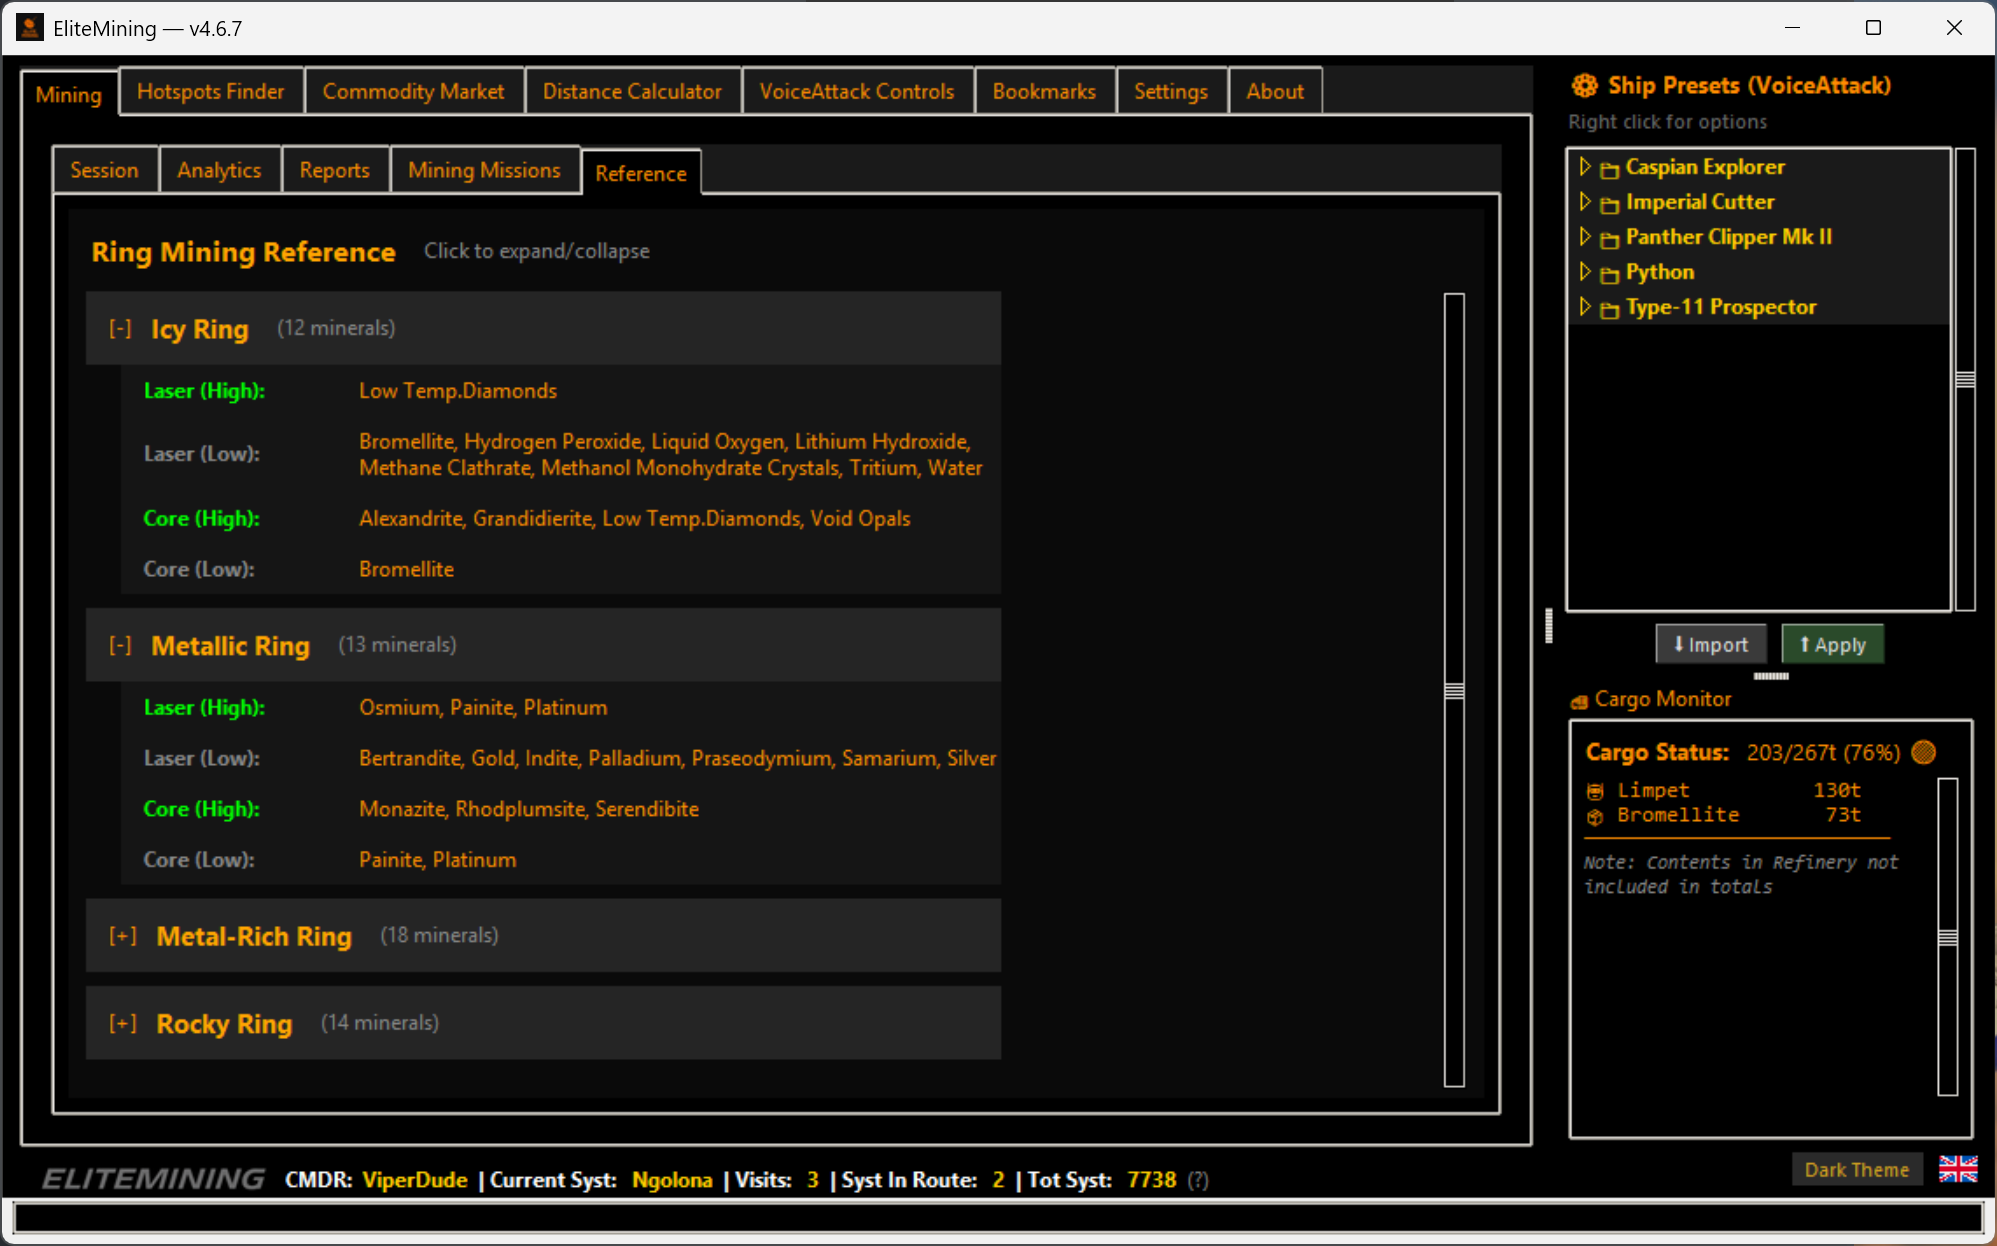
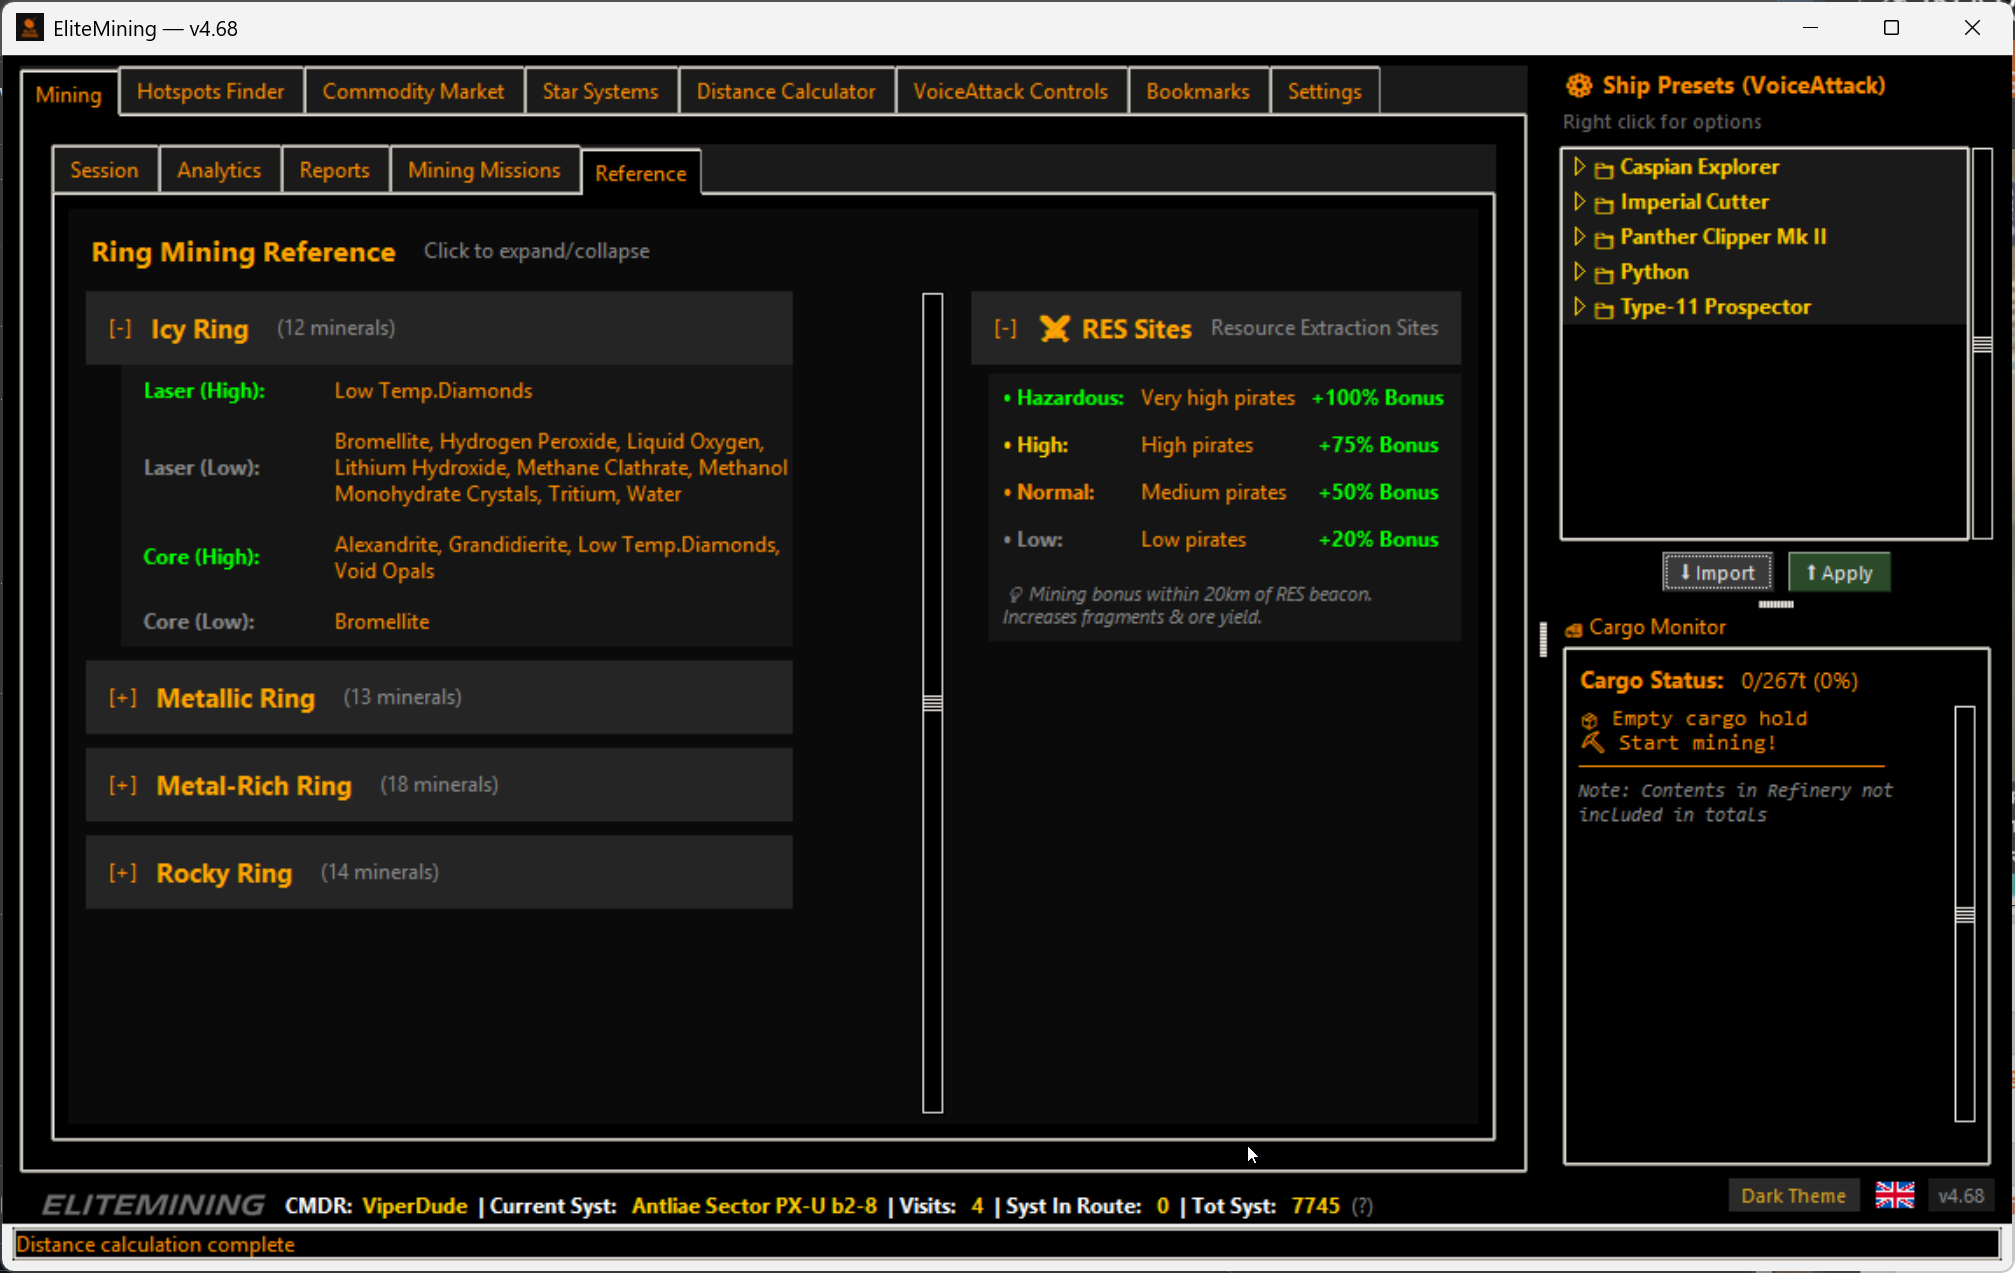
v4.6.8: Add Ring Mining Reference documentation

Changed region(s): [[0.0, 0.0, 1.0, 1.0], [0.9314, 0.0, 0.9624, 0.0305]]

diff --git a/README.md b/README.md
@@ -17,6 +17,7 @@
 - [Hotspot Finder](#hotspot-finder)
 - [Commodity Market](#commodity-market)
 - [Mining Missions](#mining-missions)
+- [Ring Mining Reference](#ring-mining-reference)
 - [Star Systems](#star-systems)
 - [Distance Calculator](#distance-calculator)
 - [Getting Started](#getting-started)
@@ -258,6 +259,22 @@ Track your active mining missions and quickly find hotspots or selling stations 
 
 <img src="https://github.com/Viper-Dude/EliteMining/blob/main/Screenshot/mining_missions.png" width="600"><br>  
 *Mining Missions tab showing active missions with quick search options.*
+
+[Back to Top](#top)
+
+---
+
+## Ring Mining Reference
+
+Quick reference guide for ring types and mining minerals, accessible from the Mining tab.
+
+### Key Features
+- **Ring Type Guides** – Expandable sections for Icy, Metallic, Metal-Rich, and Rocky rings
+- **Mineral Categories** – Laser (High/Low) and Core (High/Low) minerals for each ring type
+- **RES Sites Reference** – Resource Extraction Site types with pirate levels and mining bonus percentages
+
+<img src="https://github.com/Viper-Dude/EliteMining/blob/main/Screenshot/mining_reference.png" width="600"><br>  
+*Ring Mining Reference showing ring types and RES site bonuses.*
 
 [Back to Top](#top)
 

diff --git a/docs/PATCHNOTES_v4.68.md b/docs/PATCHNOTES_v4.68.md
@@ -8,6 +8,12 @@
 - Displays current system info (security, allegiance, government, state, economy, population)
 - Right-click context menu to copy system name or open in Inara/EDSM/Spansh
 
+### Ring Mining Reference Tab
+- Added new "Reference" sub-tab under Mining with ring type guides
+- Expandable sections for Icy, Metallic, Metal-Rich, and Rocky rings
+- Shows Laser (High/Low) and Core (High/Low) minerals for each ring type
+- RES Sites reference with pirate levels and mining bonus percentages
+
 ## Hotfix
 
 
